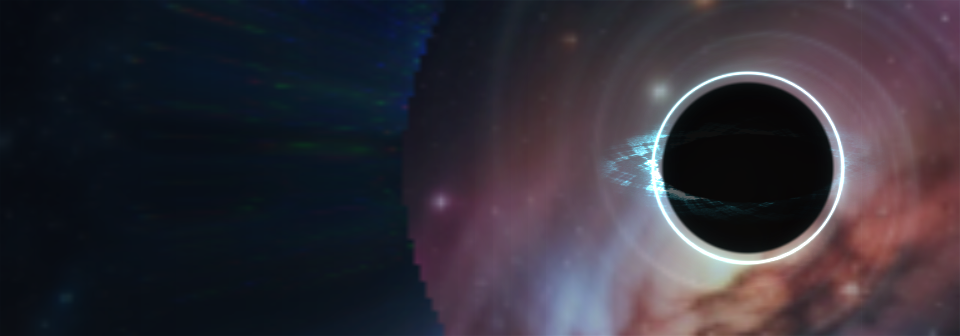
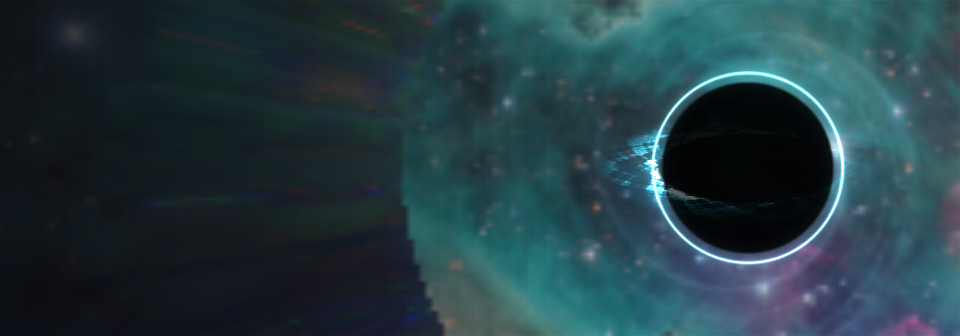
剑内星空改为静态单帧；背景换成即梦生成的星云
- star_sword.png 由 96 帧序列改为 40×40 单帧，删除 mcmeta：
  不做时间动画，剑内的星空随剑本身（以及玩家视角）转动。
- 形状约束不变：alpha 蒙版与原图逐像素一致（0/256 不一致）。
- blackhole_deepspace.png 换成即梦 Seedream 5.5 生成的星云，
  裁掉右下角水印后 1600×900 → 512×288。

diff --git a/tools/GenFx.java b/tools/GenFx.java
@@ -29,7 +29,7 @@ public final class GenFx {
     static final int ART = SRC * SCALE;     // 64：画在画布中间的原图
     static final int MARGIN = 4;            // 四周留白，专门给泛光用
     static final int FRAME = ART + MARGIN * 2;  // 80
-    static final int FRAMES = 96;
+    static final int FRAMES = 1;   // 不做时间动画：星空图是静态的，随剑本身转动
     static final int BORDER = SCALE;        // 原图最外圈 1 像素（=4 texel）永远不动
 
     /* palette: same family as the original cyan/blue/white blade */
@@ -249,9 +249,8 @@ public final class GenFx {
 
         /* ---- 5. write strip + mcmeta ---- */
         ImageIO.write(strip, "PNG", swordPng.toFile());
-        String mcmeta = "{\"animation\":{\"frametime\":1,\"interpolate\":true}}";
-        Files.write(swordPng.resolveSibling("star_sword.png.mcmeta"),
-                mcmeta.getBytes(StandardCharsets.UTF_8));
+        // 静态单帧：删掉遗留的动画描述文件，否则会被当成"40 帧序列"去切
+        Files.deleteIfExists(swordPng.resolveSibling("star_sword.png.mcmeta"));
 
         /* ---- 6. verify: border bytes + transparency + loop seam ---- */
         BufferedImage check = ImageIO.read(swordPng.toFile());

diff --git a/docs/fx-visual.md b/docs/fx-visual.md
@@ -16,9 +16,8 @@
 
 ## 1. 剑的星空流转 + 边缘泛光
 
-- `assets/star_sword_mod_1785589476/textures/item/star_sword.png`
-  是一张**竖向帧序列**（40 宽 × 40×96 高），旁边带
-  `star_sword.png.mcmeta`（`frametime=1`、`interpolate=true`）。
+- `assets/star_sword_mod_1785589476/textures/item/star_sword.png` 是**单帧静态图**（40×40），
+  没有 `.mcmeta`：剑内的星空不做时间动画，靠剑本身随视角/身体转动来产生"在动"的感觉。
 - 画布 40×40：原 16×16 图**最近邻放大 2 倍**（32×32）居中，四周留 4 像素空白专给泛光。
   这个比例是有意的——原版把贴图映射到 16×16 的模型空间，画布超过 ~40 就会在常见
   GUI 缩放下被 mipmap 压得太狠，细节（尤其是那圈边缘光）会被抹平。
